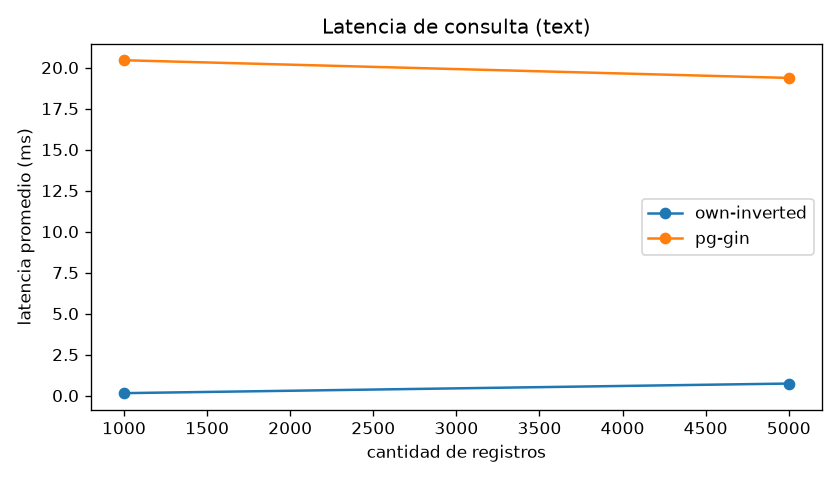
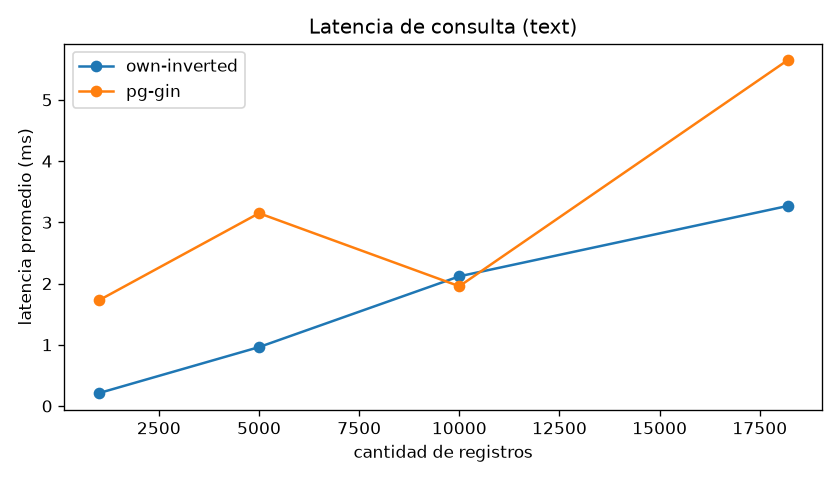
perf(multimedia): agrega cache de matriz y poda por IDF al KNN, corrige la medición de latencia en los adapters de Postgres y actualiza los resultados del benchmark

diff --git a/multimodal-db/multimedia/knn_index.py b/multimodal-db/multimedia/knn_index.py
@@ -16,16 +16,21 @@ class MultimediaKNNIndex(Index):
     # Guarda histogramas en memoria indexados por clave
     def __init__(
         self,
-        candidate_ratio: float = 0.5,
+        candidate_ratio: float = 0.01,
         resolver: MediaResolver | None = None,
     ) -> None:
         self._vectors: dict[str, np.ndarray] = {}
         # Lista invertida: visual word -> lista de claves que la contienen
         self._inverted: dict[int, list[str]] = defaultdict(list)
-        # Fracción mínima de candidatos a revisar si el filtro es muy agresivo
+        # Fracción mínima del índice que debe juntar la poda para usarse
         self._candidate_ratio = candidate_ratio
         # Convierte nombres de archivo en histogramas cuando está presente
         self._resolver = resolver
+        # Matriz con todos los vectores apilados para no rearmarla en cada búsqueda
+        self._matrix: np.ndarray | None = None
+        self._norms: np.ndarray | None = None
+        self._keys: list[str] = []
+        self._positions: dict[str, int] = {}
 
     def build(self, records: Iterable[Record]) -> OperationResult:
         # Cada record es una tupla (track_id, histograma)
@@ -67,13 +72,17 @@ class MultimediaKNNIndex(Index):
         if len(self._vectors) == 0:
             return OperationResult(records=[])
         k = k or 10
-        candidates = self._filter_candidates(query)
-        if not candidates:
-            candidates = list(self._vectors.keys())
-        keys = list(candidates)
-        matrix = np.stack([self._vectors[k_] for k_ in keys])
+        self._ensure_matrix()
+        rows = self._candidate_rows(query, k)
+        if rows is None:
+            keys = self._keys
+            matrix = self._matrix
+            norms = self._norms
+        else:
+            keys = [self._keys[i] for i in rows]
+            matrix = self._matrix[rows]
+            norms = self._norms[rows]
         # Similitud coseno entre la consulta y los candidatos
-        norms = np.linalg.norm(matrix, axis=1)
         query_norm = np.linalg.norm(query)
         if query_norm == 0 or np.all(norms == 0):
             return OperationResult(records=[])
@@ -89,6 +98,7 @@ class MultimediaKNNIndex(Index):
         vector = self._vectors.pop(key, None)
         if vector is None:
             return OperationResult(affected=0)
+        self._matrix = None
         # Elimina la clave de las listas invertidas donde aparece
         active_words = np.where(vector > 0)[0]
         for word in active_words:
@@ -105,24 +115,47 @@ class MultimediaKNNIndex(Index):
             return np.asarray(self._resolver.resolve(value), dtype=np.float32)
         return np.asarray(value, dtype=np.float32)
 
+    # Rearma la matriz apilada solo cuando cambió el contenido del índice
+    def _ensure_matrix(self) -> None:
+        if self._matrix is not None:
+            return
+        self._keys = list(self._vectors)
+        self._positions = {key: i for i, key in enumerate(self._keys)}
+        self._matrix = np.stack([self._vectors[key] for key in self._keys])
+        self._norms = np.linalg.norm(self._matrix, axis=1)
+
     def _add_to_index(self, key: str, vector: np.ndarray) -> None:
         self._vectors[key] = vector
+        self._matrix = None
         # Registra la clave en cada visual word activa del histograma
         active_words = np.where(vector > 0)[0]
         for word in active_words:
             self._inverted[int(word)].append(key)
 
-    def _filter_candidates(self, query: np.ndarray) -> set[str]:
-        # Busca las visual words activas en la consulta
-        active_words = np.where(query > 0)[0]
-        candidates: set[str] = set()
-        for word in active_words:
-            candidates.update(self._inverted.get(int(word), []))
-        # Si hay muy pocos candidatos usa todo el índice
-        min_candidates = max(1, int(len(self._vectors) * self._candidate_ratio))
-        if len(candidates) < min_candidates:
-            return set()
-        return candidates
+    # Devuelve las filas candidatas para la búsqueda o None para revisar todo
+    def _candidate_rows(self, query: np.ndarray, k: int) -> np.ndarray | None:
+        total = len(self._keys)
+        # Una word presente en muchos archivos no distingue a ninguno
+        selective_cap = max(1, int(0.05 * total))
+        # Solo las words raras de la consulta aportan a la poda
+        selective_words = [
+            int(word)
+            for word in np.where(query > 0)[0]
+            if 0 < len(self._inverted.get(int(word), [])) <= selective_cap
+        ]
+        if not selective_words:
+            return None
+        # La cantidad de candidatos protege el recall del top k pedido
+        limit = max(k * 4, int(total * self._candidate_ratio))
+        # Si la poda deja demasiados candidatos no vale la pena copiar el subset
+        if limit >= 0.3 * total:
+            return None
+        # Puntaje de cada archivo según cuánto comparte las words raras de la consulta
+        overlap = self._matrix[:, selective_words] @ query[selective_words]
+        # Si pocos archivos comparten esas words se revisa todo el índice
+        if int(np.count_nonzero(overlap)) < limit:
+            return None
+        return np.argpartition(overlap, -limit)[-limit:]
 
     def save(self, sink: StorageEngine) -> None:
         # Serializa histogramas y lista invertida como JSON en una página
@@ -147,3 +180,4 @@ class MultimediaKNNIndex(Index):
             list,
             {int(word): list(keys) for word, keys in state["inverted"].items()},
         )
+        self._matrix = None

diff --git a/multimodal-db/comparison/pgvector_ivf.py b/multimodal-db/comparison/pgvector_ivf.py
@@ -16,9 +16,13 @@ class PgVectorIVFEngine(ComparisonEngine):
     def __init__(self, dsn: str, modality: str = "IMAGE") -> None:
         self._dsn = dsn
         self._modality = modality.upper()
+        self._connection = None
 
+    # Reutiliza una sola conexión para no medir el costo de conectar
     def _conn(self):
-        return psycopg2.connect(self._dsn)
+        if self._connection is None or self._connection.closed:
+            self._connection = psycopg2.connect(self._dsn)
+        return self._connection
 
     def load(self, dataset: list[dict]) -> None:
         # Inserta histogramas como vectores en la tabla de medios
@@ -66,9 +70,10 @@ class PgVectorIVFEngine(ComparisonEngine):
             ORDER BY distance
             LIMIT 10
         """
+        conn = self._conn()
         tracemalloc.start()
         t0 = time.perf_counter()
-        with self._conn() as conn, conn.cursor() as cur:
+        with conn, conn.cursor() as cur:
             cur.execute(sql, (vec_str, self._modality))
             rows = cur.fetchall()
         latency_ms = (time.perf_counter() - t0) * 1000

diff --git a/multimodal-db/comparison/postgres_gin.py b/multimodal-db/comparison/postgres_gin.py
@@ -13,9 +13,13 @@ class PostgresGINEngine(ComparisonEngine):
     # Conecta al schema compare para búsqueda full-text con GIN
     def __init__(self, dsn: str) -> None:
         self._dsn = dsn
+        self._connection = None
 
+    # Reutiliza una sola conexión para no medir el costo de conectar
     def _conn(self):
-        return psycopg2.connect(self._dsn)
+        if self._connection is None or self._connection.closed:
+            self._connection = psycopg2.connect(self._dsn)
+        return self._connection
 
     def load(self, dataset: list[dict]) -> None:
         # Inserta letras de canciones en la tabla de documentos
@@ -49,9 +53,10 @@ class PostgresGINEngine(ComparisonEngine):
             ORDER BY rank DESC
             LIMIT 10
         """
+        conn = self._conn()
         tracemalloc.start()
         t0 = time.perf_counter()
-        with self._conn() as conn, conn.cursor() as cur:
+        with conn, conn.cursor() as cur:
             cur.execute(sql, (str(q),))
             rows = cur.fetchall()
         latency_ms = (time.perf_counter() - t0) * 1000

diff --git a/multimodal-db/experiments/run_benchmarks.py b/multimodal-db/experiments/run_benchmarks.py
@@ -169,7 +169,7 @@ def bench_pg_knn(vectors: np.ndarray, queries: np.ndarray, dsn: str) -> dict:
 def run_benchmarks(
     sizes: list[int],
     query_count: int = 10,
-    out_dir: str | Path = "experiments/results",
+    out_dir: str | Path = "experiments/results/local",
     seed: int = 42,
     dsn: str | None = None,
     make_plots: bool = True,
@@ -256,7 +256,7 @@ def main() -> None:
     parser = argparse.ArgumentParser(description="Benchmark del engine propio contra PostgreSQL")
     parser.add_argument("--sizes", type=int, nargs="+", default=[1000, 10000])
     parser.add_argument("--queries", type=int, default=10)
-    parser.add_argument("--out", default="experiments/results")
+    parser.add_argument("--out", default="experiments/results/local")
     parser.add_argument("--seed", type=int, default=42)
     parser.add_argument("--lyrics-csv", default=str(LYRICS_CSV))
     parser.add_argument("--synthetic", action="store_true", help="usa corpus sintético en vez del CSV")